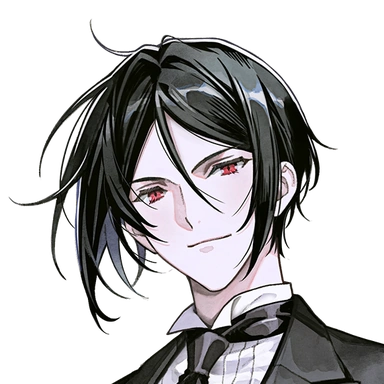
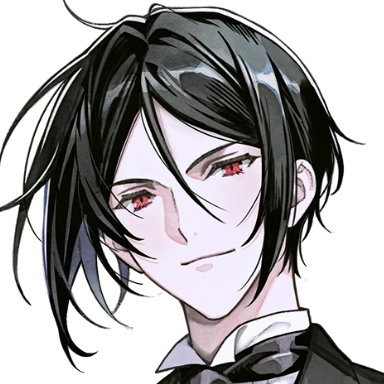
Update game content from the web editor

diff --git a/current/standing.js b/current/standing.js
@@ -5,7 +5,7 @@ const standingProfiles={
   ciel:{"height":140,"eye":86,"jaw":132,"eyeX":50,"jawX":50,"glow":24,"crop":null},
   ciel11:{"height":146,"eye":79,"jaw":124,"eyeX":50,"jawX":50,"glow":24,"crop":null},
   ciel12:{"height":152,"eye":62,"jaw":108,"eyeX":50,"jawX":50,"glow":24,"crop":null},
-  seb:{"height":186,"eye":68.1,"jaw":107.1,"eyeX":50,"jawX":50,"glow":24,"crop":null},
+  seb:{"height":186,"eye":68.1,"jaw":107.1,"eyeX":50,"jawX":50,"glow":24,"crop":{"x":44.41,"y":17.44,"size":51.52}},
   agni:{"height":193,"eye":53,"jaw":89,"eyeX":50,"jawX":50,"glow":null,"crop":null},
   bard:{"height":181,"eye":52,"jaw":98,"eyeX":50,"jawX":50,"glow":null,"crop":null},
   finny:{"height":163,"eye":68,"jaw":112,"eyeX":50,"jawX":50,"glow":null,"crop":null},
@@ -14,7 +14,7 @@ const standingProfiles={
   snake:{"height":177,"eye":64,"jaw":109,"eyeX":50,"jawX":50,"glow":null,"crop":null},
   soma:{"height":171,"eye":74,"jaw":118,"eyeX":50,"jawX":50,"glow":null,"crop":null},
   tanaka:{"height":166,"eye":64,"jaw":108,"eyeX":50,"jawX":50,"glow":null,"crop":null},
-  lau:{"height":178,"eye":62,"jaw":104,"eyeX":50,"jawX":50,"glow":null,"crop":null},
+  lau:{"height":178,"eye":62,"jaw":100.85,"eyeX":50,"jawX":50.61,"glow":24,"crop":null},
   liz11:{"height":144,"eye":87,"jaw":126,"eyeX":50,"jawX":50,"glow":null,"crop":null},
   liz12:{"height":150,"eye":78,"jaw":113,"eyeX":50,"jawX":50,"glow":null,"crop":null},
   liz13:{"height":156,"eye":89,"jaw":134,"eyeX":50,"jawX":50,"glow":null,"crop":null}
